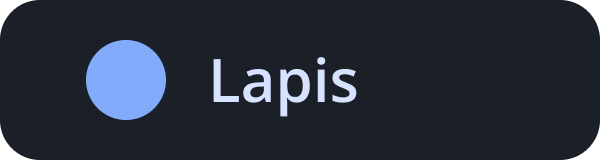
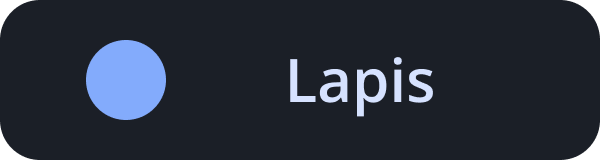
📖 DOC: Update lapis button in readme

Changed region(s): [[0.33, 0.3438, 0.72, 0.75], [0.66, 0.3438, 0.69, 0.4062]]

diff --git a/CHANGELOG.md b/CHANGELOG.md
@@ -2,6 +2,10 @@
 
 All notable changes to the "lapis" extension will be documented in this file.
 
+## "1.6.2"
+
+- Update lapis button in readme.
+
 ## "1.6.1"
 
 - Update theme link buttons in readme.
